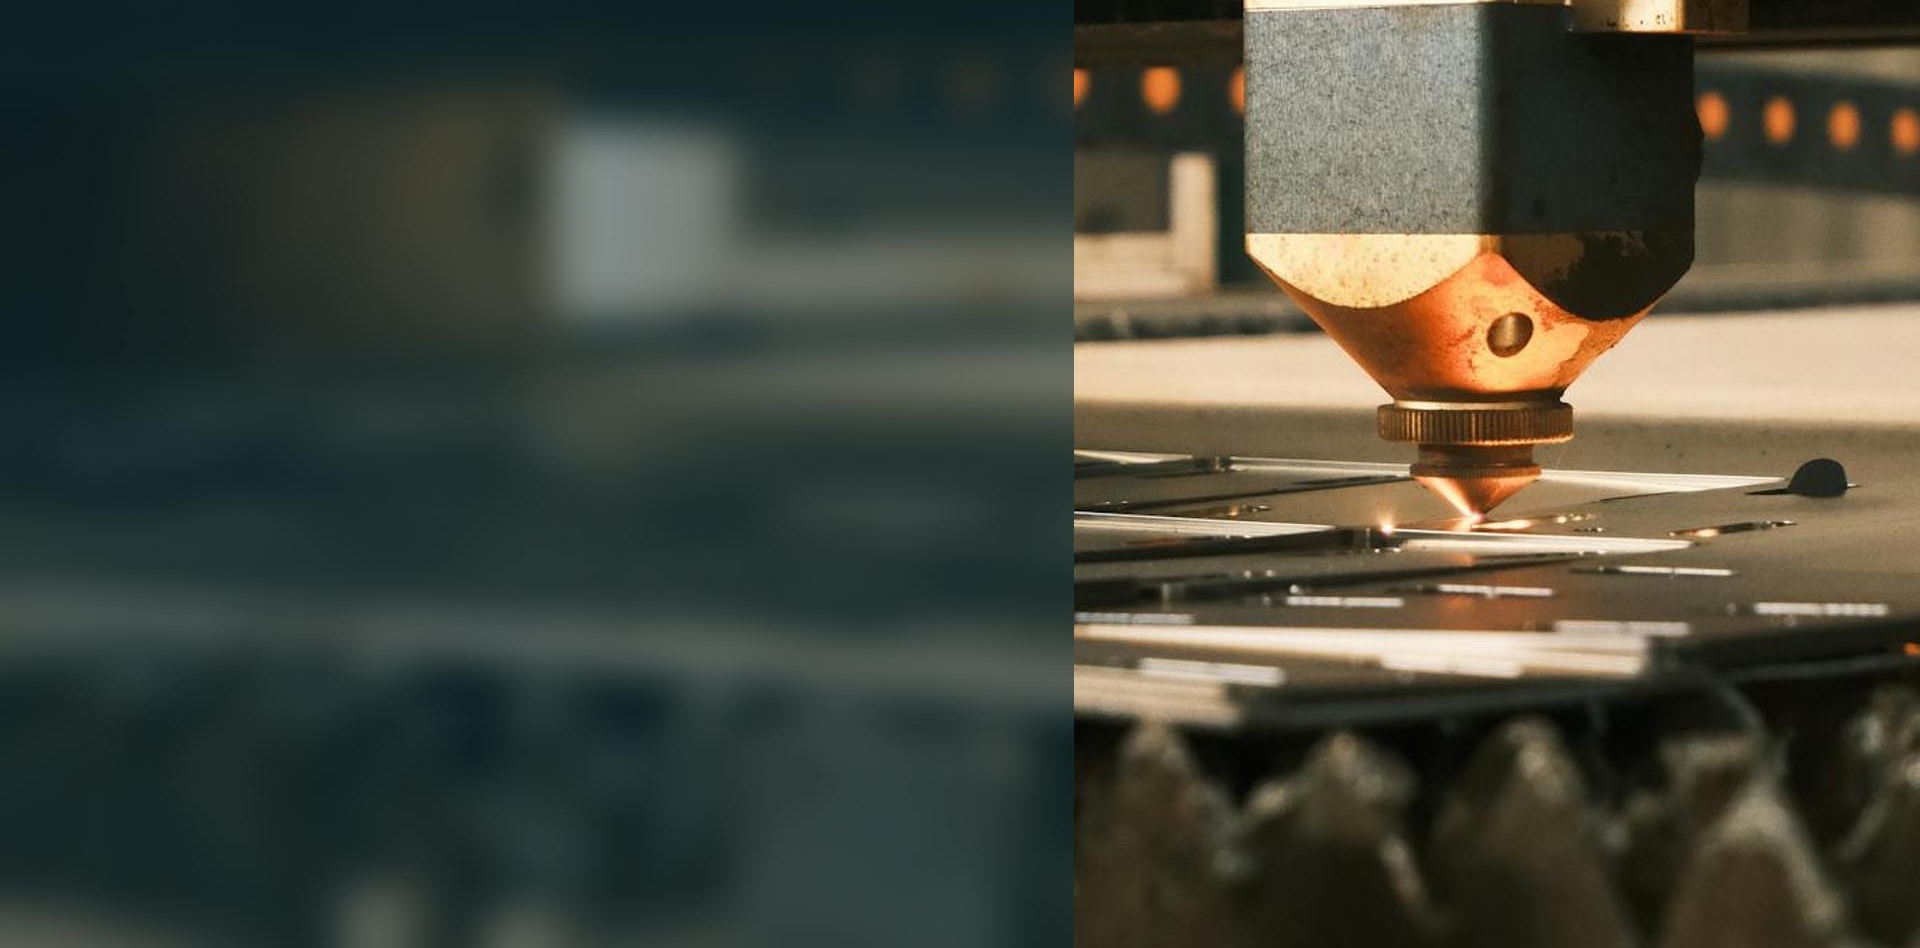
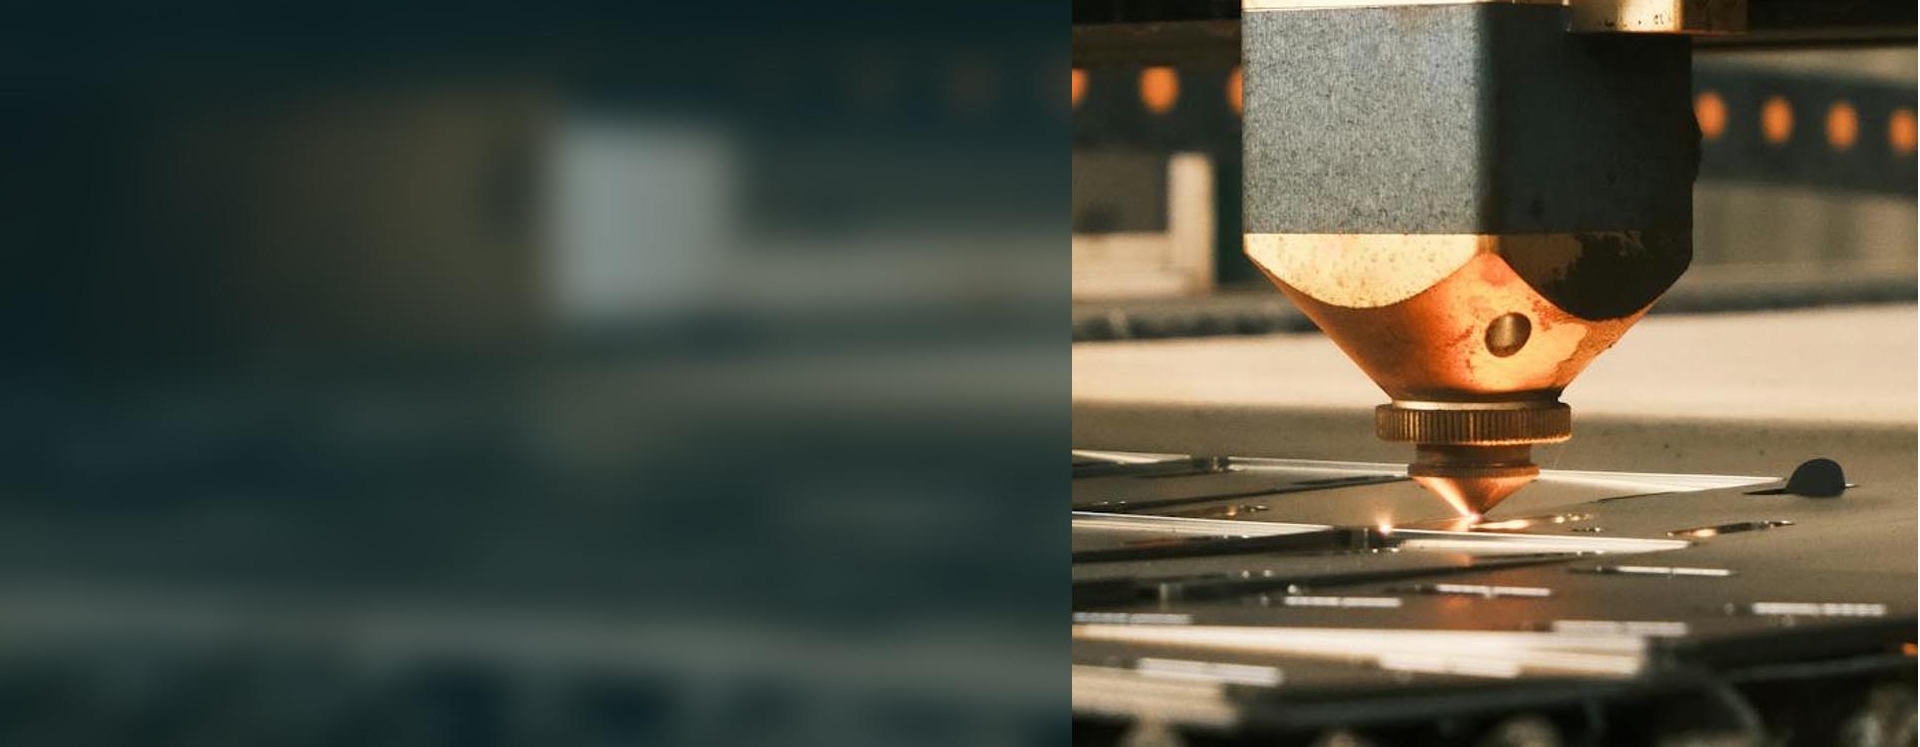
fix adaptive

diff --git a/src/app/components/OurProduct/ourproduct.module.scss b/src/app/components/OurProduct/ourproduct.module.scss
@@ -8,14 +8,15 @@
 .image_container {
   display: flex;
   width: 100%;
-  height: 1024px;
+  min-height: 797px;
+  height: 100%;
   background: url('../../../../public/img/bacn_main.jpg') no-repeat top center / contain;
   position: relative;
 }
 
 .info_container {
   position: absolute;
-  top: 50%; 
+  top: 40%; 
   left: 396px;
   transform: translateY(-50%);
   padding: 0 15px;
@@ -29,7 +30,7 @@
 
 @media screen and (max-width: 1800px) {
   .info_container {
-    left: 5%; // Смещение уменьшается на малых экранах
+    left: 15%;
     width: 90%;
   }
 }
@@ -102,7 +103,6 @@
     max-width: 446px;
     width: 100%;
     margin-top: 60px;
-    
 }
 
 .button_link {
@@ -130,33 +130,36 @@
     }
 }
 
-@media screen and (max-width: 1700px) {
+@media screen and (max-width: 1850px) {
     .info_container {
         position: absolute;
-        top: 45%;
+        // top: 45%;
+        left: 17%;
+}
+.button_container {
+    margin-top: 30px;
 }
 }
 
-@media screen and (max-width: 1580px) {
+@media screen and (max-width: 1650px) {
     .info_container {
         position: absolute;
         top: 37%;
+        left: 15%
+}
+.icon_product {
+    width: 35px;
+    height: 35px;
 }
 }
 
-@media screen and (max-width: 1370px) {
+@media screen and (max-width: 1450px) {
     .info_container {
         position: absolute;
         top: 33%;
+        left: 10%;
 }
-}
-
-@media screen and (max-width: 1300px) {
-    .info_container {
-        position: absolute;
-        top: 35%;
-    }
-        .title_2 {
+.title_2 {
         display: flex;
         align-items: center;
     h2{
@@ -203,24 +206,37 @@
     }
 }
 }
+
+@media screen and (max-width: 1300px) {
+    .info_container {
+        position: absolute;
+        top: 32%;
+        left: 5%
+    }
+}
 @media screen and (max-width: 1260px) {
     .info_container {
         position: absolute;
         top: 30%;
+        left: 3%;
     }
 }
 
 @media screen and (max-width: 1180px) {
     .info_container {
         position: absolute;
-        top: 25%;
+        top: 28%;
     }
+    .icon_product {
+    width: 30px;
+    height: 30px;
+}
     .title_2 {
         display: flex;
         align-items: center;
     h2{
     color: #f3f3f3;
-    font-size: .875rem;
+    font-size: .75rem;
     font-weight: 600;
     text-transform: uppercase;
     margin-left: 16px;
@@ -228,14 +244,14 @@
 }
 
 .title_1 {
-    margin-top: 24px;
-    max-width: 450px;
+    margin-top: 18px;
+    max-width: 390px;
     width: 100%;
     color: #fdfdfd;
-    font-size: 2.1875rem;
+    font-size: 35px;
     font-weight: 700;
     span {
-        font-size: 2.1875rem;
+        font-size: 35px;
         color: #e8af1d;
     }
 }
@@ -253,13 +269,16 @@
     display: flex;
     margin-left: 16px;
     align-items: center;
-    margin-bottom: 20px;
+    margin-bottom: 15px;
     &:first-child {
         margin-left: 0;
     }
     &:nth-child(3) {
         margin-left: 0;
     }
+}
+.button_container {
+    margin-top: 20px;
 }
 }
 

diff --git a/src/app/components/OurProduct/OurProduct.tsx b/src/app/components/OurProduct/OurProduct.tsx
@@ -58,7 +58,7 @@ const OurProduct = () => {
         {/* <div className={s.image_blur}> */}
           <div className={s.info_container}>
             <div className={s.title_2}>
-              <svg width="56" height="56" viewBox="0 0 56 56" fill="none" xmlns="http://www.w3.org/2000/svg">
+              <svg width="56" height="56" viewBox="0 0 56 56" fill="none" xmlns="http://www.w3.org/2000/svg" className={s.icon_product}>
                 <path d="M28 37.3333C14.56 37.3333 12.18 23.94 11.76 13.314C11.641 10.36 11.5827 8.88067 12.6933 7.51567C13.8017 6.14833 15.1293 5.92433 17.787 5.47633C21.163 4.92332 24.5791 4.6525 28 4.66667C32.1627 4.66667 35.5903 5.033 38.213 5.47633C40.8707 5.92433 42.1983 6.14833 43.309 7.51567C44.4197 8.883 44.359 10.36 44.2423 13.314C43.8223 23.94 41.4423 37.3333 28.0023 37.3333H28Z" stroke="#E8AF1D" strokeWidth="2" />
                 <path d="M28 37.3334V44.3334" stroke="#E8AF1D" strokeWidth="2" strokeLinecap="round" />
                 <path d="M36.1667 51.3333H19.8333L20.6267 47.376C20.7324 46.8472 21.0179 46.3714 21.4348 46.0294C21.8517 45.6874 22.3741 45.5003 22.9133 45.5H33.0867C33.6259 45.5003 34.1484 45.6874 34.5652 46.0294C34.9821 46.3714 35.2677 46.8472 35.3733 47.376L36.1667 51.3333Z" stroke="#E8AF1D" strokeWidth="2" strokeLinecap="round" strokeLinejoin="round" />
@@ -86,7 +86,7 @@ const OurProduct = () => {
         </div>
           </div>
           <div className={s.contact_container}>
-            <h2>Контакти</h2>
+            {/* <h2>Контакти</h2> */}
            </div>
       </div>
             <Popup isOpen={isOpen} onClose={() => setIsOpen(false)}>

diff --git a/src/app/components/Header/Nav/nav.module.scss b/src/app/components/Header/Nav/nav.module.scss
@@ -16,6 +16,7 @@
     font-weight: 400;
     align-items: center;
     justify-content: space-between;
+    gap: 40px;
 }
 
 .info {
